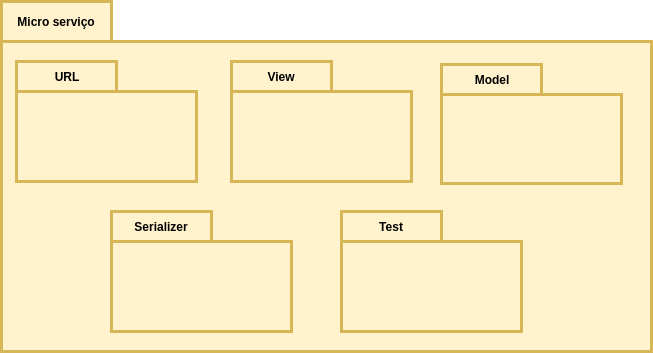
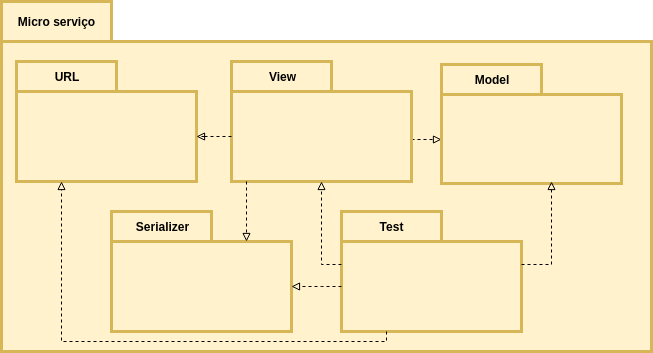
adding back and front diagrams

diff --git a/docs/docs/doc-arquitetura.md b/docs/docs/doc-arquitetura.md
@@ -24,7 +24,7 @@ O diagrama apresenta cada etapa que será seguido para que o aplicativo funcione
 
 ## 2.2 Diagrama React/Redux/Microsserviços
 
-imagem
+![react](assets/diagrama_react.png)
 
 ### React-Native
 
@@ -70,7 +70,7 @@ imagem
 
 ### Front-end
 
-imagem
+![diagrama_pacotes_front](assets/diagrama_pacotes_front.png)
 
 ### Back-end
 
